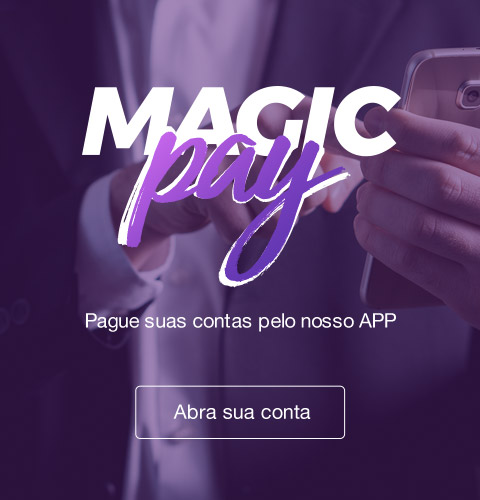
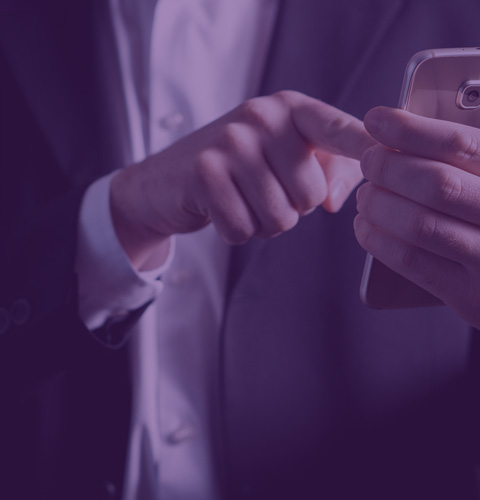
ajustes

diff --git a/assets/css/custom.css b/assets/css/custom.css
@@ -57,9 +57,13 @@ a:hover {
     width: 5%;
 }
 
+.banner .img-fluid {
+    max-width: 70%;
+    height: auto;
+}
+
 @media (min-width: 576px) {
     .banner .img-fluid {
         max-width: 40%;
-        height: auto;
     }
 }

diff --git a/index.php b/index.php
@@ -44,9 +44,9 @@
 
 <section class="banner">
     <div class="container">
-        <div class="banner-content d-flex flex-column justify-content-center align-items-sm-start flex-sm-row justify-content-sm-start">
+        <div class="banner-content d-flex flex-column align-items-center justify-content-center align-items-sm-start flex-sm-row justify-content-sm-start">
             <img class="img-fluid" src="assets/images/magic_pay.png">
-            <div class="text-sm-left d-flex flex-column align-items-center align-items-sm-left justify-content-center ml-sm-5 justify-content-sm-start">
+            <div class="d-flex flex-column text-center align-items-center justify-content-center mt-3 text-sm-left align-items-sm-left ml-sm-5 justify-content-sm-start">
                 <h2 class="display-2 mb-5 mb-sm-3 text-white">Pague suas contas pelo nosso APP</h2>
                 <a href="#" class="btn w-75 btn-outline-light btn-lg" data-toggle="modal" data-target="#create-acount">Abra sua conta</a>
 
@@ -62,7 +62,7 @@
             </div>
             <div class="carousel-item">
                 <img src="assets/images/banner-desktop2.jpg" class="banner-desktop w-100">
-                <img src="assets/images/banner-mobile.jpg" class="banner-mobile w-100">
+                <img src="assets/images/banner-mobile2.jpg" class="banner-mobile w-100">
             </div>
         </div>
 

diff --git a/dashboard.php b/dashboard.php
@@ -149,5 +149,6 @@
 
 </div>
 
+<?php include("footer.php") ?>
 
 <?php include("scripts.php") ?>
